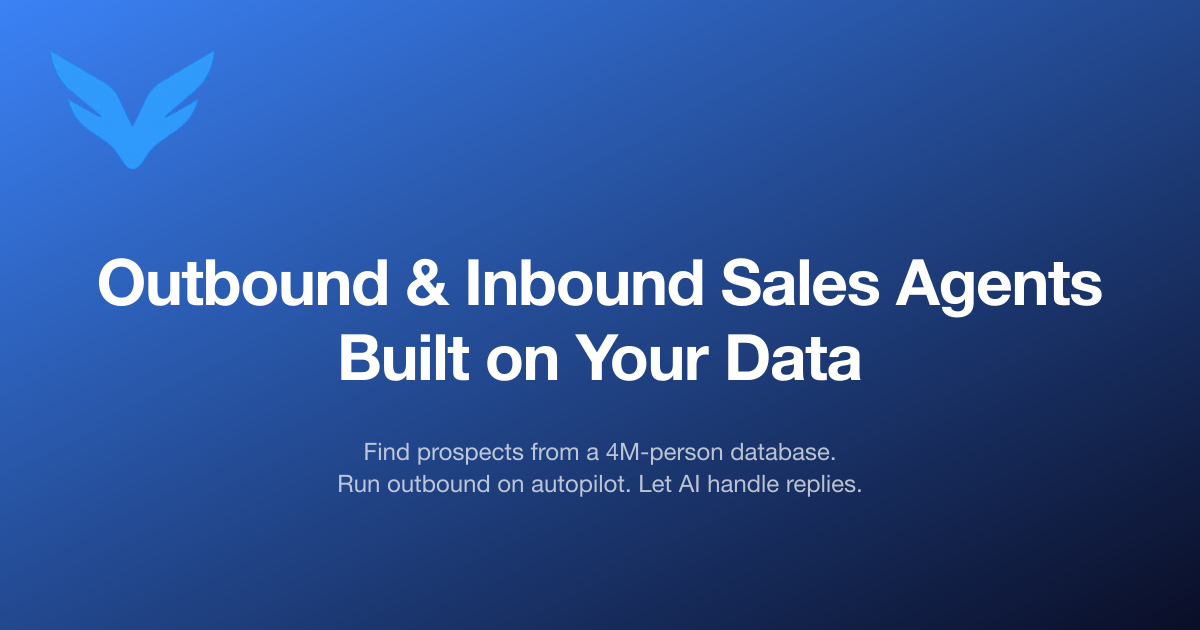
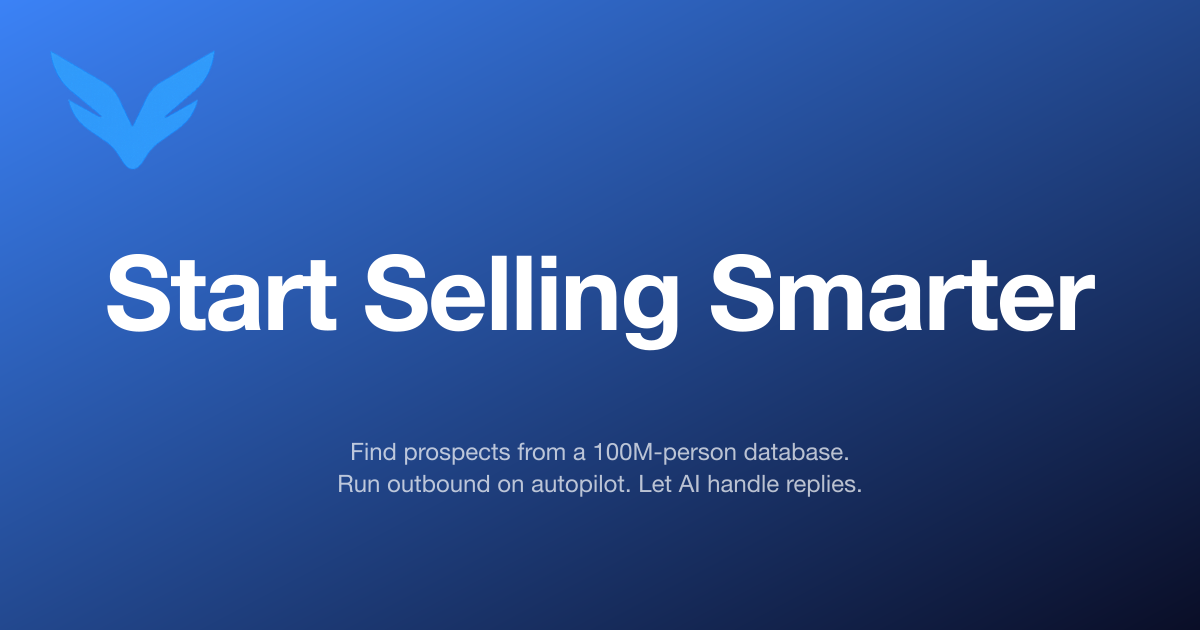
Update OG copy: "Start Selling Smarter" + 100M database
- Headline: shorter, punchier ("Start Selling Smarter")
- Description: 4M → 100M prospect count
- Image and meta tags updated together

Changed region(s): [[0.0617, 0.3921, 0.925, 0.6032], [0.2775, 0.6937, 0.7092, 0.754]]

diff --git a/index.html b/index.html
@@ -5,23 +5,23 @@
     <meta name="viewport" content="width=device-width, initial-scale=1.0" />
     <link rel="icon" type="image/png" href="/vrelly-favicon.png" />
     <link rel="canonical" href="https://vrelly.com/" />
-    <title>Vrelly — Outbound & Inbound Sales Agents Built on Your Data</title>
-    <meta name="description" content="Find prospects from a 4M-person database. Run outbound on autopilot. Let AI handle replies — automatically classified, drafted, and sent on your approval." />
+    <title>Start Selling Smarter</title>
+    <meta name="description" content="Find prospects from a 100M-person database. Run outbound on autopilot. Let AI handle replies — automatically classified, drafted, and sent on your approval." />
     <meta name="robots" content="index, follow" />
     <meta name="keywords" content="AI sales agent, sales data, prospect data, B2B data provider, sales intelligence, outbound sales AI, enriched contact data" />
     <meta name="author" content="Vrelly" />
     <meta name="theme-color" content="#3b82f6" />
 
-    <meta property="og:title" content="Vrelly — Outbound & Inbound Sales Agents Built on Your Data" />
-    <meta property="og:description" content="Find prospects from a 4M-person database. Run outbound on autopilot. Let AI handle replies — automatically classified, drafted, and sent on your approval." />
+    <meta property="og:title" content="Start Selling Smarter" />
+    <meta property="og:description" content="Find prospects from a 100M-person database. Run outbound on autopilot. Let AI handle replies — automatically classified, drafted, and sent on your approval." />
     <meta property="og:type" content="website" />
     <meta property="og:url" content="https://vrelly.com" />
     <meta property="og:site_name" content="Vrelly" />
     <meta property="og:image" content="https://vrelly.com/og-image.png" />
 
     <meta name="twitter:card" content="summary_large_image" />
-    <meta name="twitter:title" content="Vrelly — Outbound & Inbound Sales Agents Built on Your Data" />
-    <meta name="twitter:description" content="Find prospects from a 4M-person database. Run outbound on autopilot. Let AI handle replies — automatically classified, drafted, and sent on your approval." />
+    <meta name="twitter:title" content="Start Selling Smarter" />
+    <meta name="twitter:description" content="Find prospects from a 100M-person database. Run outbound on autopilot. Let AI handle replies — automatically classified, drafted, and sent on your approval." />
     <meta name="twitter:image" content="https://vrelly.com/og-image.png" />
 
     <script type="application/ld+json">
